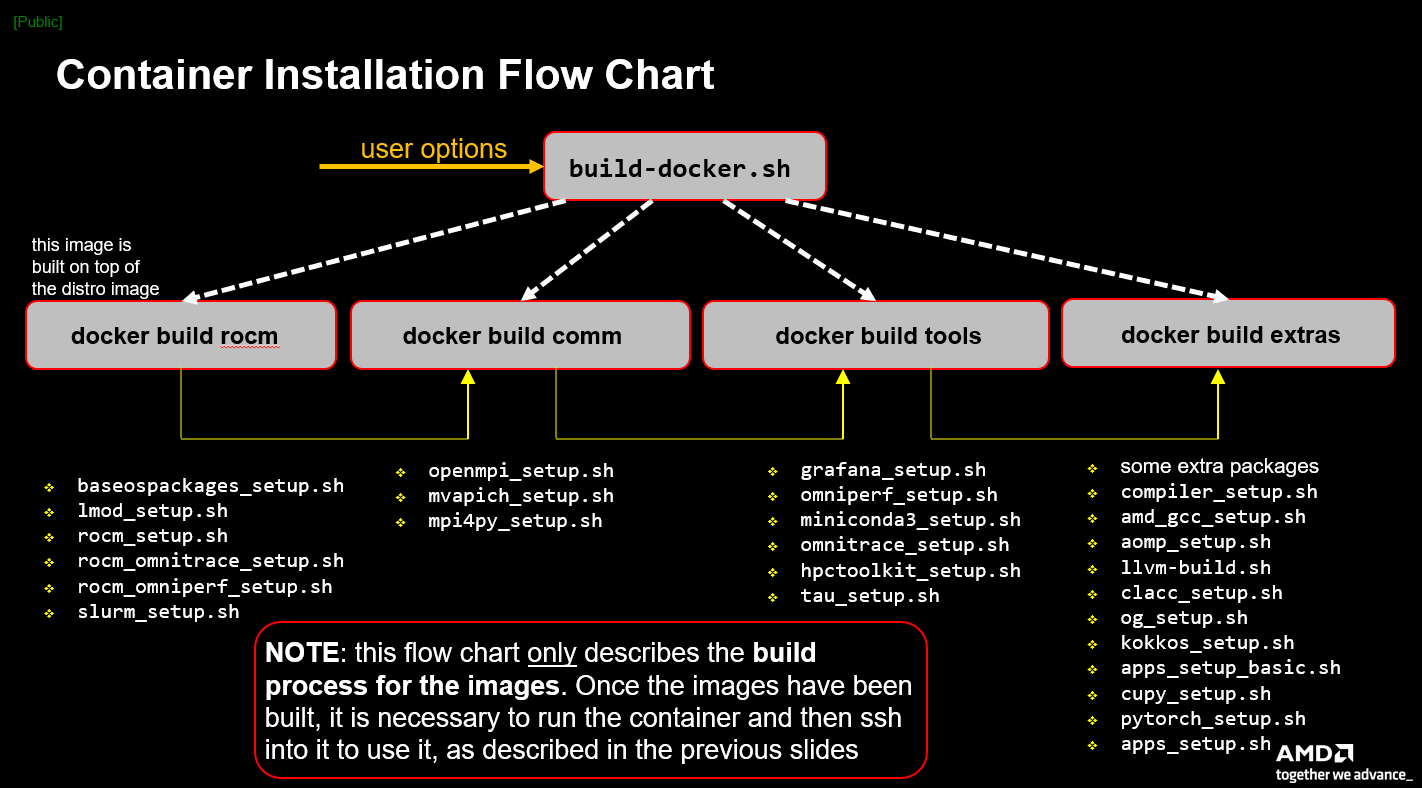
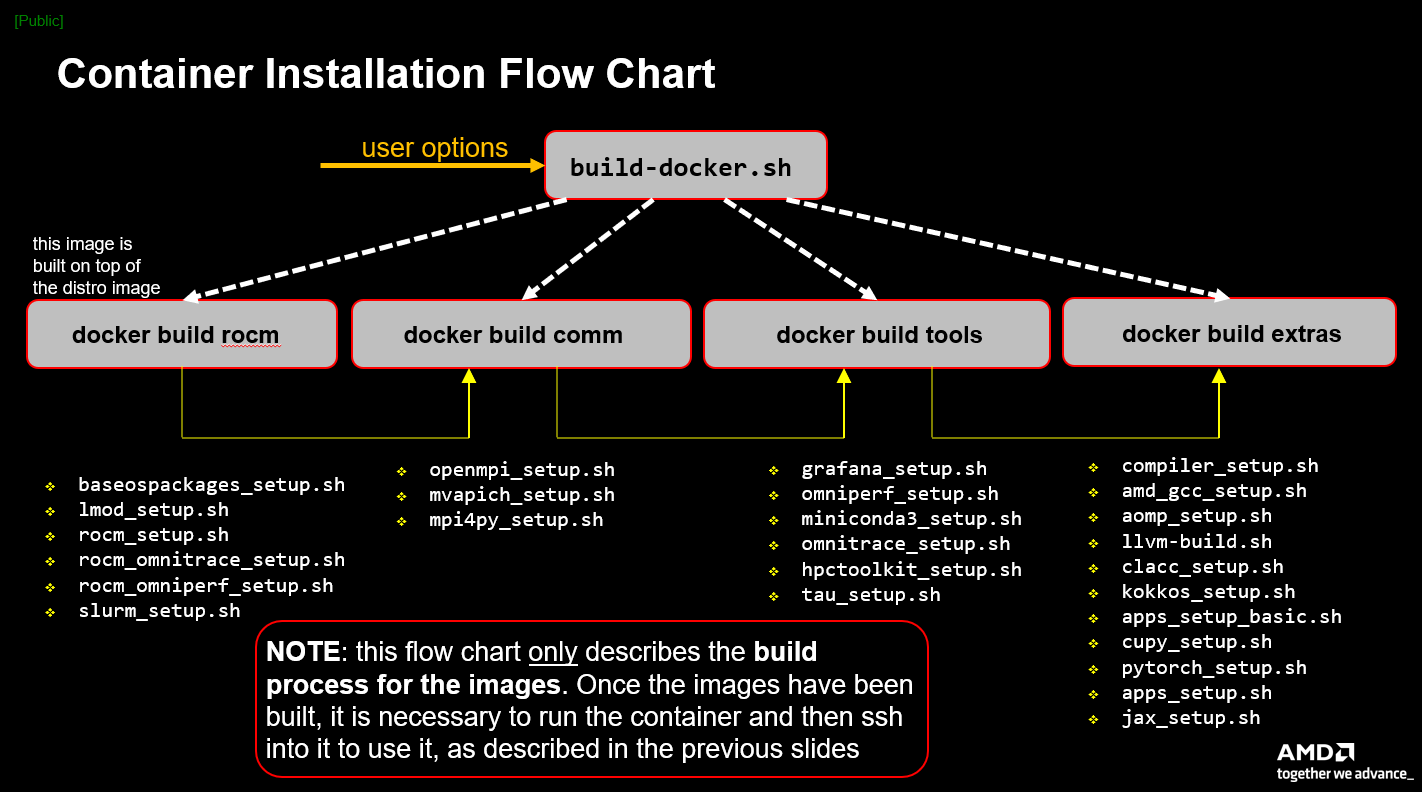
Updated REAMDE

diff --git a/README.md b/README.md
@@ -307,6 +307,9 @@ extras/sources/scripts/apps_setup_basic.sh
 // install CuPy and create CuPy module
 extras/sources/scripts/cupy_setup.sh 
 
+// install JAX and create JAX module
+extras/sources/scripts/jax_setup.sh 
+
 // install PyTorch and create PyTorch module
 extras/sources/scripts/pytorch_setup.sh 
 
@@ -350,7 +353,7 @@ omniperf/2.0.0 omnitrace/1.11.2
 --------------------------------------------------------- /etc/lmod/modules/ROCmPlus-LatestCompilers ---------------------------------------------------------
 amd-gcc/13.2.0 aomp/amdclang-19.0
 --------------------------------------------------------------- /etc/lmod/modules/ROCmPlus-AI ----------------------------------------------------------------
-cupy/13.0.0b1 pytorch/2.2
+cupy/13.0.0b1 pytorch/2.4 /jax/0.4.30
 ------------------------------------------------------------------- /etc/lmod/modules/misc -------------------------------------------------------------------
 kokkos/4.3.1 hpctoolkit/dev  tau/dev
 -------------------------------------------------------------- /usr/share/lmod/lmod/modulefiles --------------------------------------------------------------
